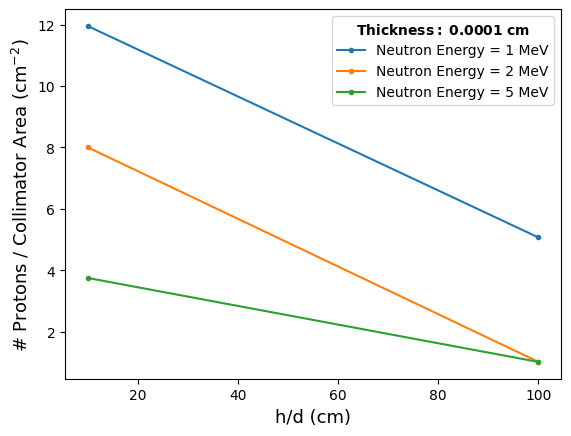
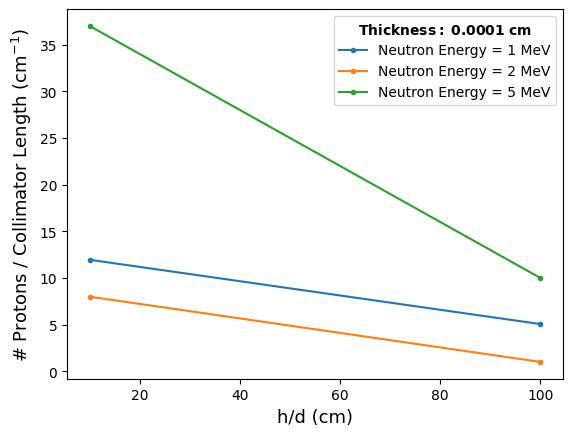
Update plots

diff --git a/plot_efficiency.py b/plot_efficiency.py
@@ -33,7 +33,7 @@ for file in files:
 
         else:
             print("E: ", E, "d: ", d, "t: ", thick)
-            eff_arr_5.append(len(arr)/(d*np.pi**2))
+            eff_arr_5.append(len(arr)/(d))
             d_arr_5.append(h/d)
 
 
@@ -65,6 +65,6 @@ plt.plot(d_arr_5, eff_arr_5,  ".-", label = "Neutron Energy = 5 MeV")
 title_string = f"Thickness: {thickness} cm"
 plt.legend(title=r'$\bf{{{}}}$'.format(title_string.replace(' ', r'\;')), fancybox=True)
 plt.xlabel("h/d (cm)", fontsize=13)
-plt.ylabel(r"# Protons / Collimator Area (cm$^{-2}$)", fontsize=13)
+plt.ylabel(r"# Protons / Collimator Length (cm$^{-1}$)", fontsize=13)
 
 plt.savefig(f"result_plots/efficiency_t_{thickness}.png", bbox_inches="tight")
